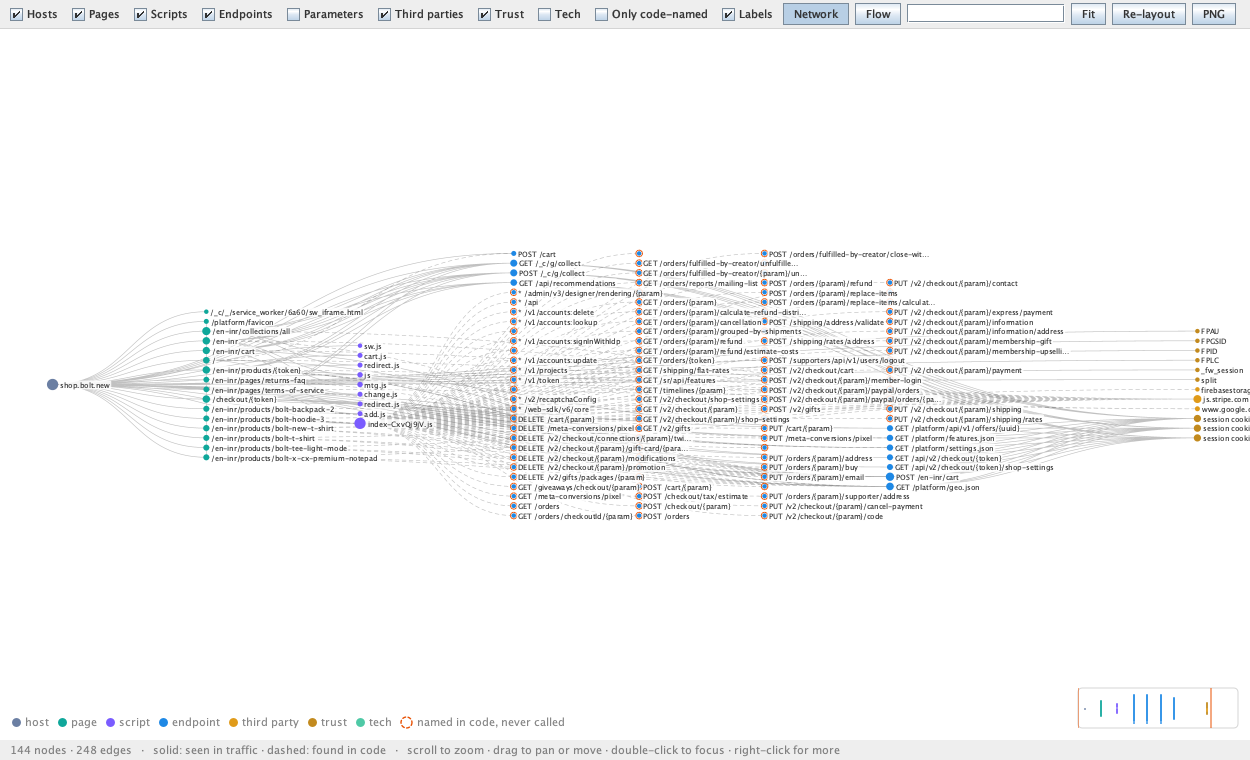
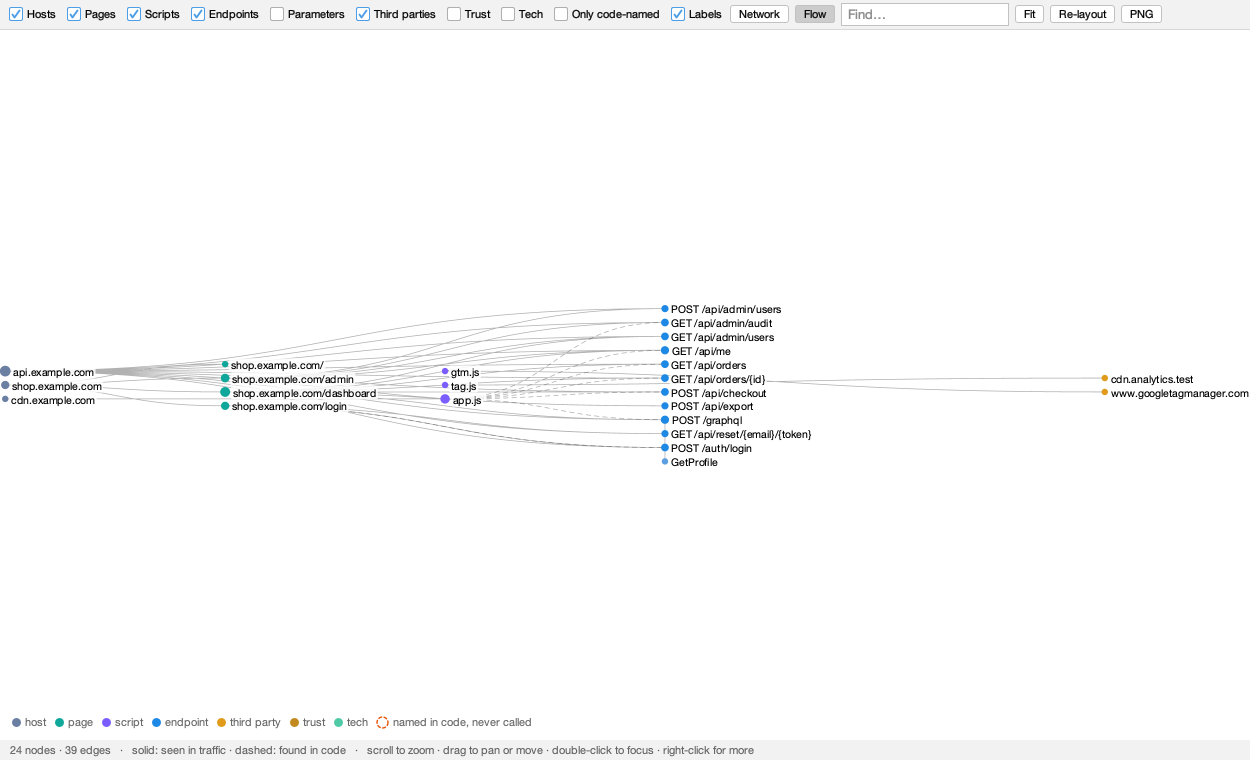
Extension 1.2.0: version, grouped changelog, new screenshots, plan status
- Version 1.1.0 -> 1.2.0 in build.gradle.kts and Version.java.
- CHANGELOG: "Unreleased" becomes "1.2.0 — 2026-10-17", grouped into Fixes,
  Data safety, Performance, UI and Under the hood. Statements later PRs
  superseded are merged or dropped (the "Laying out N nodes…" placeholder,
  the old "burp" default, an animating map); both benchmark tables kept.
- Screenshots: overview, surface, map-network and map-flow re-rendered
  headlessly from the bundled sample model under FlatLaf 3.4.1 (render
  only, not a build dependency). The welcome shots are unchanged.
- README: the map holds still with Trust off at first, Settings cards,
  Live button, Delete this model… in ⋯, the sample as the default model.
- PLAN: a status section listing what PRs #1-#11 finished and what remains.

diff --git a/burp-extension/src/main/java/burp2model/engine/Version.java b/burp-extension/src/main/java/burp2model/engine/Version.java
@@ -4,5 +4,5 @@ package burp2model.engine;
 public final class Version {
     private Version() {}
 
-    public static final String EXTENSION = "1.1.0";
+    public static final String EXTENSION = "1.2.0";
 }

diff --git a/burp-extension/CHANGELOG.md b/burp-extension/CHANGELOG.md
@@ -1,38 +1,37 @@
 # Changelog: Burp extension
 
-## Unreleased
+## 1.2.0 — 2026-10-17
 
-- **The map holds still.** It no longer animates: each layout is computed to the end and shown once, nodes already on the map keep their exact place, and new ones settle among them, so live capture only ever adds. Re-layout starts over. Roles, cookies and credentials ("Trust") are off at first, because each links to most of the map and turned it into a ball of lines; the layout is roomier, and a map of 80 nodes or fewer labels everything that fits.
-- **Settings** is laid out as cards (Model, Next send, Live capture, Data, About) whose fields keep their width; under Burp's theme the old form squeezed the fields to nothing and cut the labels short.
-- **Delete this model…** in ⋯ and in Settings removes a model and everything in it (after asking) and opens the sample. A missing "burp" model from an earlier version is no longer created again.
-- Roles first compares the lower-sounding role against the higher one (user against admin, not admin against user). The Query tab starts with a short guide instead of an empty table. "Comparing builds…" and similar messages give way to the model summary as soon as the work ends.
-- Fix: a large map (over 200 nodes) jumped whenever live capture added to it: the view re-fitted itself, the map blanked to "Laying out…" while the new layout ran, and nodes restarted from older positions. Now the current map stays on screen until the new layout is ready, the camera moves only when you ask (Fit, a new layout, the first map), and every new layout starts from where the nodes are.
-- Fix: inside Burp, some text showed raw markup such as `<html>…</html>` (facts titles, connection links, the site map, the Copy for AI menu). Burp's theme does not always let labels render HTML, so these are now drawn with fonts and colours instead.
-- No more empty "burp" model: with no model chosen, the extension opens the sample model, already filled with the demo shop. An empty "burp" model left by an earlier version gives way to the sample (a "burp" model with requests in it is kept), and the model switcher no longer lists models with nothing saved.
-- **A welcome page.** The first time the tab opens, and whenever the open model is empty, it shows what burp2model does, three steps to a first model, and buttons that start one: try the sample model (a small demo shop seen as a user and an admin, loaded into a model of its own), import a HAR or Burp export, turn on live capture, or open Settings. It explains what stays on your machine. The **?** in the header and **About burp2model** in Settings open it any time; the first requests in an empty model take you to the tabs. Display type is IBM Plex Mono, bundled with the extension (SIL Open Font License); everything meant to be read at length stays in Burp's font. It follows Burp's light and dark themes, wraps to one column in a narrow pane, and every button works from the keyboard.
-- A live-capture tick on a 20,000-request model is about a fifth cheaper (140 ms to 110 ms): a repeated secret no longer rebuilds its record, dropping not-found paths no longer rebuilds the whole edge index, and path folding keeps each request's folding key between rebuilds and splits paths without a regex. The model is byte-identical.
-- **The header** shows the open model as a switcher (every model saved on this machine, plus New model…), a Live button that turns live capture on and off and shows which, and a ⋯ menu for import, export and Settings. The count pills, which repeated the Overview, are gone. Role, scope, replace and live capture are kept as soon as they change; only a new model name needs Save.
-- **Keyboard.** Every button can be reached with Tab. While focus is in the tab: Cmd/Ctrl+1–9 and 0 switch tabs, Cmd/Ctrl+F searches, Cmd/Ctrl+L goes to the query box, Cmd/Ctrl+Shift+C copies the whole model for AI, Alt+Left goes back after a jump, and `/` on the map jumps to Find. None of these are taken from the rest of Burp.
-- **Readable in both themes, at any font size.** Text sizes, row heights and tiles follow Burp's font setting instead of fixed pixels. Coloured text (badges, links, the live indicator, errors) is shaded until it reaches 4.5:1 against its background. Borders and muted text follow a switch between Burp's light and dark themes without reloading.
-- **Overview** reflows: six tiles in a row when there is room, then three or two, and the charts stack in a narrow pane; long lines are cut short instead of scrolling sideways. The technology stack uses two columns when wide. A lead row opens on click or Enter and lights up under the pointer (the separate Open buttons are gone), and "any" replaces "*" for any method. The empty Overview links to the welcome page.
-- **Map:** the Network and Flow toggles always show the layout drawn, the rings around code-only endpoints are lighter so they no longer drown the map, and labels stay at least 10 px however far out you zoom.
-- Under the hood: each tab is its own class behind a small `Tab` interface (the panel no longer switches tabs by number), the map's layout is its own class, and live capture's flush logic is separate from Burp and unit tested.
-- The header's "Search" label is gone (the box says what it is), so the model name no longer collides with it in a narrow pane.
-- Fix: after **Clear this model**, the model could not be opened again (the next Burp start or rename failed with a missing build file). Clearing now removes the build list too, and a model whose build file has gone missing opens with the builds before it.
-- Fix: live capture lost one request each time a batch filled up (500 requests in one tick).
-- Fix: requests captured live before the first build was recorded were lost when Burp restarted. They are now read back from the saved requests.
-- Fix: while live capture was on, every refresh reset the Settings fields, wiping a role or scope you were typing.
-- Fix: live capture no longer records a build when only duplicates arrived, and its every-40-requests trigger counts new requests rather than everything in the batch. A build is recorded from the model already built, without building it twice.
-- Sending, importing and live capture read the Settings from a copy kept up to date as you type, instead of reading the Swing fields from a background thread; the build history can be read while requests are being added.
-- Fix: the dedupe list (`seen.txt`) was first written without a final newline, so the next batch's first key joined the previous last key on one line. After a restart, those two requests could be added again. New saves end with a newline, and lines already joined in existing models are split when read.
+A safer, faster and calmer extension: saved models survive crashes and damaged files, Burp never waits on the tab, live capture stays bounded, the map holds still, and a welcome page with a sample model gets you started.
+
+### Fixes
+
+- Live capture lost one request each time a batch filled up (500 requests in one tick).
+- Requests captured live before the first build was recorded were lost when Burp restarted. They are now read back from the saved requests.
+- Live capture no longer records a build when only duplicates arrived, and its every-40-requests trigger counts new requests rather than everything in the batch. A build is recorded from the model already built, without building it twice.
+- After **Clear this model**, the model could not be opened again (the next Burp start or rename failed with a missing build file). Clearing now removes the build list too, and a model whose build file has gone missing opens with the builds before it.
+- The dedupe list (`seen.txt`) was first written without a final newline, so the next batch's first key joined the previous last key on one line, and after a restart those two requests could be added again. New saves end with a newline, and lines already joined in existing models are split when read.
+- While live capture was on, every refresh reset the Settings fields, wiping a role or scope you were typing.
+- A large map (over 200 nodes) jumped whenever live capture added to it: the view re-fitted itself, the map blanked while the new layout ran, and nodes restarted from older positions. The current map now stays on screen until the new layout is ready (see the map under UI).
+- Inside Burp, some text showed raw markup such as `<html>…</html>` (facts titles, connection links, the site map, the Copy for AI menu). Burp's theme does not always let labels render HTML, so these are now drawn with fonts and colours instead.
+- Under Burp's theme the Settings form squeezed its fields to nothing and cut the labels short (see Settings below).
+- Roles first compares the lower-sounding role against the higher one (user against admin, not admin against user).
+
+### Data safety
+
 - **Saved models survive crashes and damaged files.** Every file is written to a temporary file and moved into place. The appended requests file is read one gzip member at a time: if the last append was cut off, the complete requests are kept and the next save writes a clean file. An unreadable request line skips only that line. An unreadable `session.json` restarts the build history but keeps every saved request. Nothing is cleared because a file is damaged any more; damaged files are kept as `*.corrupt-<time>`, and what happened shows in the status bar and the extension output.
 - **Clean unload.** Unloading waits for a save in progress instead of interrupting it, adds what live capture still holds, waits for sends and imports, and stops the parsing threads, the map's timers and the caches, so a reload no longer leaks the previous copy.
 - A model folder is locked while Burp has it open; a second Burp opening the same model is told so instead of writing over it. The same model name always reuses its open model.
+- Sending, importing and live capture read the Settings from a copy kept up to date as you type, instead of reading the Swing fields from a background thread; the build history can be read while requests are being added.
 - Burp XML import turns on secure processing (entity expansion is capped) and never reads external entities or DTDs.
 - The JSON reader rejects malformed or cut-off input with the position, and the writer keeps lone surrogates as escapes instead of saving them as `?`.
+- **Live capture is bounded.** The queue holds at most 5,000 requests or 256 MB, and responses beyond what is scanned (10 MB) are cut before queueing. Requests that do not fit are counted and reported instead of silently dropped. Live capture keeps at most 10 requests of any one shape (method, host, path template, query names, status, role), so polling and cache-busters no longer grow the model without end; a manual send is never capped.
+
+### Performance
+
 - **Faster and lighter on large models.** Measured at 20,000 requests with ten live-capture builds (`ScaleBench`):
 
-  | | before | now |
+  | | 1.1.0 | 1.2.0 |
   |---|---|---|
   | live-capture tick | 275 ms | 130 ms |
   | recording a build | 675 ms | 113 ms |
@@ -41,7 +40,6 @@
   | disk (builds) | 80 MB | 8 MB |
   | reopening the model | 1.0 s | 0.74 s |
 
-  The changes:
   - A saved build no longer repeats every request and response; the saved requests already hold them, and diffs need only the nodes, edges and evidence ids. Older builds still open.
   - Only the last three builds read back for diffs are kept in memory.
   - Saving and loading stream the requests line by line instead of building one large string.
@@ -49,13 +47,10 @@
   - Technology detection skips most signatures with a cheap text check before running their pattern over a page.
   - The content cache keeps the most recently used scans rather than stopping once full.
   - Burp XML import reads the export one item at a time instead of loading it as a document; checking a `.json` file for HAR reads only its first 4 KB.
-
-  The model itself is unchanged: the same export gives byte-identical output, checked against the previous engine.
-- **Live capture is bounded.** The queue holds at most 5,000 requests or 256 MB, and responses beyond what is scanned (10 MB) are cut before queueing. Requests that do not fit are counted and reported instead of silently dropped. Live capture keeps at most 10 requests of any one shape (method, host, path template, query names, status, role), so polling and cache-busters no longer grow the model without end; a manual send is never capped.
-- While another Burp tab is in front, live capture no longer refreshes the burp2model tab; it catches up when shown. The map keeps its layout, selection and view when new requests add nothing to draw.
+- A later change made the live-capture tick about a fifth cheaper again (140 ms to 110 ms in its own run): a repeated secret no longer rebuilds its record, dropping not-found paths no longer rebuilds the whole edge index, and path folding keeps each request's folding key between rebuilds and splits paths without a regex.
 - **Burp never waits on the tab.** The longest the Swing thread is busy, measured on a 20,000-request model (`EdtBench`):
 
-  | | before | now |
+  | | 1.1.0 | 1.2.0 |
   |---|---|---|
   | opening the model | 1.1 s | 8 ms |
   | a body regex query | 351 ms | 12 ms |
@@ -65,11 +60,30 @@
   - The tab is built on the Swing thread and the model opens in the background ("Opening the model…"); a send right after Burp starts waits for it.
   - Queries, comparing builds, Copy for AI, exporting the model or a summary, switching models and clearing all run in the background, with a progress indicator in the status line.
   - A query can be cancelled, and stops by itself after 20 seconds, so a regex that backtracks badly cannot hang Burp.
-  - The status line marks errors in red and returns to the model summary after a few seconds.
-  - Maps over 200 nodes are laid out in the background ("Laying out N nodes…").
-  - A large map draws only what is on screen, fills its nodes in a few batches, and while it moves leaves out dashes and labels (they come back when it stops). Moving the mouse over empty canvas no longer redraws it.
+  - Maps over 200 nodes are laid out on a background thread while the current map stays on screen.
+  - A large map draws only what is on screen and, while the camera moves or a node is dragged, leaves out dashes and labels (they come back when it stops). Moving the mouse over empty canvas no longer redraws it.
   - The map's Find and the Surface and Requests filters wait for a pause in typing instead of running on every keystroke.
   - The site map counts each folder once per model instead of on every row it paints, and a node's facts no longer scan every edge.
+- While another Burp tab is in front, live capture no longer refreshes the burp2model tab; it catches up when shown. The map keeps its layout, selection and view when new requests add nothing to draw.
+
+The model itself is unchanged by all of this: the same export gives byte-identical output, checked against the previous engine.
+
+### UI
+
+- **A welcome page.** The first time the tab opens, and whenever the open model is empty, it shows what burp2model does, three steps to a first model, and buttons that start one: try the sample model, import a HAR or Burp export, turn on live capture, or open Settings. It explains what stays on your machine. The **?** in the header and **About burp2model** in Settings open it any time; the first requests in an empty model take you to the tabs. Display type is IBM Plex Mono, bundled with the extension (SIL Open Font License); everything meant to be read at length stays in Burp's font. It follows Burp's light and dark themes, wraps to one column in a narrow pane, and every button works from the keyboard.
+- **The sample model is the default.** With no model chosen, the extension opens the sample model, already filled with a small demo shop seen as a user and as an admin. The old empty "burp" default is gone: an empty "burp" model left by an earlier version gives way to the sample and is not created again (a "burp" model with requests in it is kept).
+- **The header** shows the open model as a switcher (every model saved on this machine that has something in it, plus New model…), a **Live** button that turns live capture on and off and shows which, and a ⋯ menu for import, export, Delete this model… and Settings. The count pills, which repeated the Overview, are gone, and so is the "Search" label (the box says what it is). Role, scope, replace and live capture are kept as soon as they change; only a new model name needs Save.
+- **Settings** is laid out as cards (Model, Next send, Live capture, Data, About) whose fields keep their width.
+- **Delete this model…** in ⋯ and in Settings removes a model and everything in it (after asking) and opens the sample.
+- **The map holds still.** Each layout is computed to the end and shown once instead of animating; nodes already on the map keep their exact place and new ones settle among them, so live capture only ever adds. The camera moves only when you ask (Fit, a new layout, the first map). Re-layout starts over. Roles, cookies and credentials ("Trust") are off at first, because each links to most of the map and turned it into a ball of lines; the layout is roomier, and a map of 80 nodes or fewer labels everything that fits. The Network and Flow toggles always show the layout drawn, the rings around code-only endpoints are lighter, and labels stay at least 10 px however far out you zoom.
+- **Overview** reflows: six tiles in a row when there is room, then three or two, and the charts stack in a narrow pane; long lines are cut short instead of scrolling sideways. The technology stack uses two columns when wide. A lead row opens on click or Enter and lights up under the pointer (the separate Open buttons are gone), and "any" replaces "*" for any method. The empty Overview links to the welcome page.
+- The Query tab starts with a short guide instead of an empty table. The status line marks errors in red, and "Comparing builds…" and similar messages give way to the model summary as soon as the work ends.
+- **Keyboard.** Every button can be reached with Tab. While focus is in the tab: Cmd/Ctrl+1–9 and 0 switch tabs, Cmd/Ctrl+F searches, Cmd/Ctrl+L goes to the query box, Cmd/Ctrl+Shift+C copies the whole model for AI, Alt+Left goes back after a jump, and `/` on the map jumps to Find. None of these are taken from the rest of Burp.
+- **Readable in both themes, at any font size.** Text sizes, row heights and tiles follow Burp's font setting instead of fixed pixels. Coloured text (badges, links, the live indicator, errors) is shaded until it reaches 4.5:1 against its background. Borders and muted text follow a switch between Burp's light and dark themes without reloading.
+
+### Under the hood
+
+- Each tab is its own class behind a small `Tab` interface (the panel no longer switches tabs by number), the map's layout is its own class, and live capture's flush logic is separate from Burp and unit tested.
 - Unit tests for the extension (`gradle test`, JUnit 5, test-only: the jar still has no dependencies), run in CI.
 
 ## 1.1.0 — 2026-10-16

diff --git a/burp-extension/README.md b/burp-extension/README.md
@@ -24,16 +24,16 @@ Or turn on **Capture proxied traffic automatically** in Settings: in-scope Proxy
 | --- | --- |
 | Overview | Counts, code vs runtime, response mix, technology stack, cookie and credential facts, the first leads |
 | To check | Ranked leads with the reason and the request behind each, and the open questions ranked by value |
-| Map | The model as a map you can read: a network layout or a left-to-right flow, both stable (the same model always draws the same way, and new requests keep what was placed). Zoom, drag, search, hover for details, click to see a node's neighbours, double-click to focus, right-click for more; solid lines were seen in traffic, dashed ones found in code |
+| Map | The model as a map you can read: a network layout or a left-to-right flow that holds still (each layout is computed once, the same model always draws the same way, and new requests keep what was placed). Roles, cookies and credentials (Trust) are off at first; tick them to add them. Zoom, drag, search, hover for details, click to see a node's neighbours, double-click to focus, right-click for more; solid lines were seen in traffic, dashed ones found in code |
 | Surface | Endpoints, pages, scripts, third parties, cookies, credentials and more, as a list or a site map by path, with each thing's facts and connections |
 | Requests | Every captured request, with its masked request and response, coloured and pretty-printed |
 | Query | Plain questions and BQL filters and verbs, offline; every row cites evidence; copy or save results |
 | Changes | Each send or snapshot is a build; see what changed between any two |
 | Roles | Send each account under its own role, then compare what they reached |
 | Recon | Light, passive recon on a host you are authorised to test: DNS, TLS, headers, robots.txt, security.txt, mail policy (only when you press the button) |
-| Settings | Model name, role for the next send, scope, live capture, import a HAR or Burp export, export the model or a Markdown summary |
+| Settings | Cards for the model (name), the next send (role, scope, replace), live capture, data (import a HAR or Burp export, export the model or a Markdown summary, clear or delete the model, the welcome page) and about |
 
-The header shows the open model (switch to another, or make a new one) and a **Live** button for live capture; ⋯ holds import, export and Settings.
+The header shows the open model (switch to another, or make a new one) and a **Live** button that turns live capture on and off; ⋯ holds import, export, **Delete this model…** and Settings. With no model chosen, the tab opens the sample model.
 
 Keyboard, while focus is in the tab: **Cmd/Ctrl+1–9, 0** switch tabs, **Cmd/Ctrl+F** searches, **Cmd/Ctrl+L** goes to the query box, **Cmd/Ctrl+Shift+C** copies the whole model for AI, **Alt+←** goes back after a jump, and **/** on the map jumps to Find.
 

diff --git a/burp-extension/PLAN.md b/burp-extension/PLAN.md
@@ -2,6 +2,28 @@
 
 Drafted 2026-10-16 from a read-only review of `burp-extension/src` (extension 1.1.0). File references are `path:line` under `src/main/java/burp2model/` as of commit `e682211`.
 
+## Status (2026-10-17, extension 1.2.0)
+
+Phases 0-5 are merged into `main` (PRs #1-#11) and ship as 1.2.0. The plan below is kept as written; where the work went differently, this section says so.
+
+**Done**
+- **Phase 0, bug fixes, and 5.1, JUnit:** #1.
+- **Phase 1, data safety and lifecycle (1.1-1.6):** #2.
+- **Phase 2, performance and scale (2.1-2.8):** #3; cheaper live ticks toward 2.9 in #6 (about 110 ms at 20k requests, short of the 60 ms target).
+- **Phase 3, responsive UI (3.1-3.8):** #4.
+- **4A, welcome page:** #5, with IBM Plex Mono in place of the pixel fonts in #9 (open decision 1 is settled: no pixel fonts). The bundled sample model (open decision 2) shipped in #5 and became the default model in #10.
+- **4B, visual polish, keyboard and the header switcher (4.1-4.7):** #8.
+- **Phase 5, structure (5.2, 5.3, 5.5, 5.6; 5.4 in part, `MapLayout`):** #7.
+- **After the plan:** a still map during live capture, no raw HTML text inside Burp, the sample as the default model (#10); a map that never animates with Trust off by default, a Settings form of cards, Delete model (#11).
+
+**Remaining**
+- **2.9, incremental builder.** After #6 the profile is flat; it needs a redesign of `Builder`, worth doing only if large live sessions show a problem.
+- **5.7, splitting `Builder.build` into passes** (and the other large engine methods).
+- **Settings and the header still live in `MainPanel`** (about 1,190 lines); they could become their own classes.
+- **5.4, the rest:** the painter is still inside `GraphPanel` (about 1,200 lines).
+- **Streaming HAR import (part of 2.8):** Burp XML streams, but a HAR file is still read whole.
+- **Montoya message editor (open decision 4):** the spike has not been done.
+
 ## Goals
 
 1. **Trustworthy.** No lost requests, no silently wiped models, no corruption on crash or unload.
